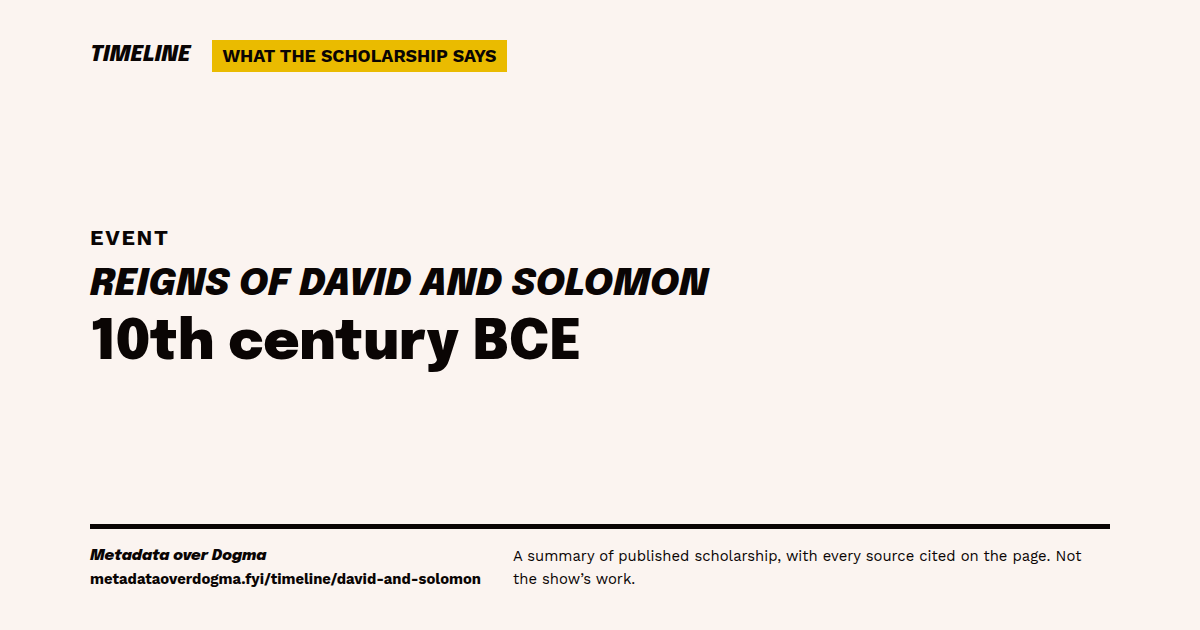
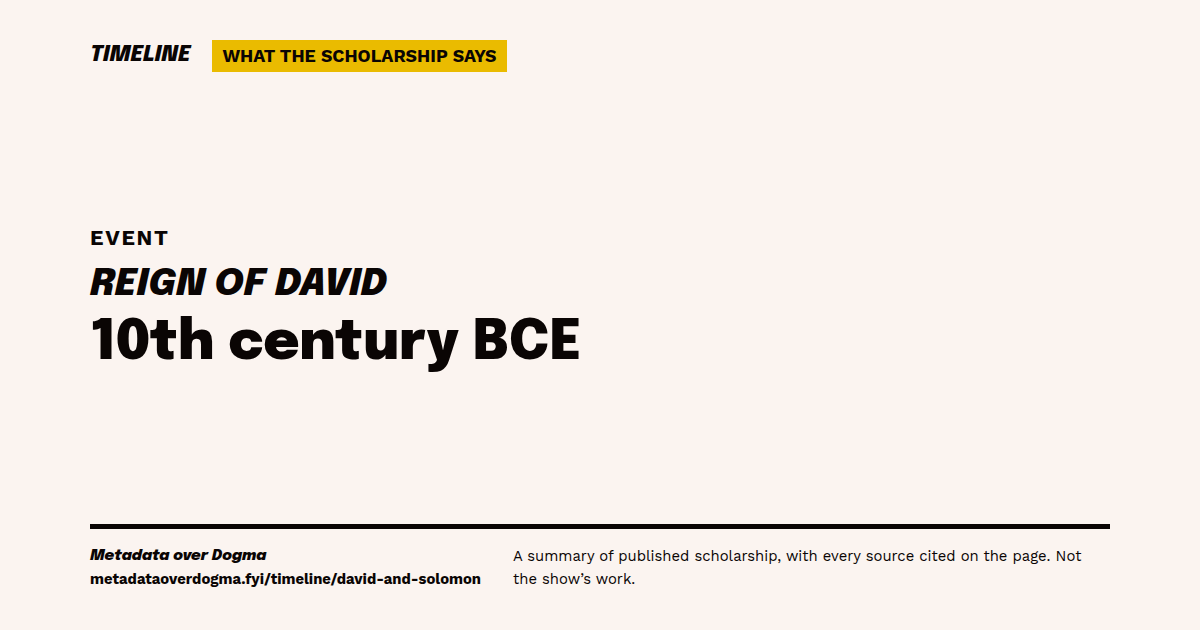
Publish the Reign of Solomon Timeline Entry; retitle david-and-solomon as Reign of David (#274)

Changed region(s): [[0.1542, 0.4222, 0.6167, 0.4825]]

diff --git a/hugo/content/timeline/solomon.md b/hugo/content/timeline/solomon.md
@@ -1,8 +1,8 @@
 ---
 title: "Reign of Solomon"
 entryKind: event
-draft: true
-sourcesRead:
+draft: false
+sourcesRead: 2026-11-28
 related: { books: [1-kings, 2-chronicles], tags: [solomon], topics: [] }
 watch: [Solomon*, historical Solomon*]
 critical:

diff --git a/hugo/content/timeline/david-and-solomon.md b/hugo/content/timeline/david-and-solomon.md
@@ -2,7 +2,7 @@
 title: "Reign of David"
 entryKind: event
 draft: false
-sourcesRead: 2026-11-25
+sourcesRead: 2026-11-28
 related:
   { books: [1-samuel, 2-samuel, 1-kings], tags: [david], topics: [david] }
 watch:
